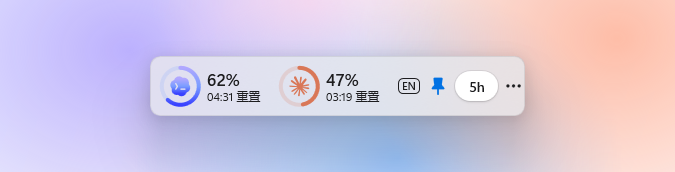
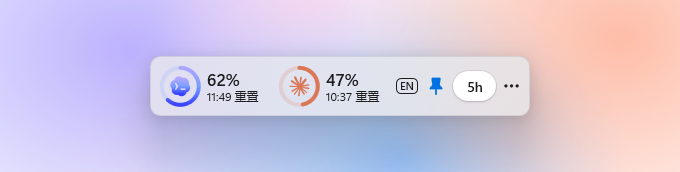
Widen the widget slightly so the menu dots clear the edge
The strip grows from 300 to 304 DIP, all of it as right padding, so the
dots sit about as far from the right edge as the first ring does from
the left. README screenshots retaken.

Changed region(s): [[0.2178, 0.3779, 0.7778, 0.6395], [0.6844, 0.5814, 0.7156, 0.6105]]

diff --git a/desktop/Widget.cs b/desktop/Widget.cs
@@ -116,7 +116,7 @@ namespace AgentHud
             ReadState();
             Lang.Apply(saved.language);
             Title = "Agent HUD Widget";
-            Width = 300; Height = 48;
+            Width = 304; Height = 48;
             WindowStyle = WindowStyle.None; ResizeMode = ResizeMode.NoResize;
             // Not a layered window: DWM only honours the capsule region for the blur on regular windows.
             // The glass frame spans the whole client area so transparent pixels show the blurred backdrop.
@@ -217,7 +217,8 @@ namespace AgentHud
             capsule.Children.Add(tint); capsule.Children.Add(sheen); capsule.Children.Add(edge); capsule.Children.Add(rim);
             var body = new Grid();
             // Language · pin · period · more: each button gets the strip's full height as hit area (the visible chip stays small).
-            foreach (var width in new[] { 7.0, 34, 5, 52, 5, 34, 5, 52, -1, 24, 22, 40, 18, 2 })
+            // The trailing 6 keeps the dots about as far from the right edge as the first ring is from the left.
+            foreach (var width in new[] { 7.0, 34, 5, 52, 5, 34, 5, 52, -1, 24, 22, 40, 18, 6 })
                 body.ColumnDefinitions.Add(new ColumnDefinition { Width = width < 0 ? new GridLength(1, GridUnitType.Star) : new GridLength(width) });
             capsule.Children.Add(body);
             codex.VerticalAlignment = VerticalAlignment.Center; Grid.SetColumn(codex, 1); body.Children.Add(codex);

diff --git a/README.md b/README.md
@@ -20,7 +20,7 @@
 </p>
 
 <p align="center">
-  <img src="docs/images/widget-en.png" width="675" alt="Desktop widget: Codex and Claude quota rings with their logos, remaining percentage and reset time">
+  <img src="docs/images/widget-en.png" width="680" alt="Desktop widget: Codex and Claude quota rings with their logos, remaining percentage and reset time">
 </p>
 
 <p align="center">
@@ -71,7 +71,7 @@ Reference: [Codex App Server documentation](https://learn.chatgpt.com/docs/app-s
 
 The widget runs `desktop/bin/AgentHUD.exe` directly and brings the local quota service back on its own. Earlier versions launched through `Agent HUD.vbs` and `start-widget.ps1`, which antivirus software (Norton) quarantined, so the entry point no longer depends on scripts. On the first run of a freshly built exe, some antivirus products hold it for tens of seconds while scanning.
 
-The widget is a 300 × 48 DIP frosted-glass strip: it blurs whatever is behind it live, uses Windows 11's native rounded corners, scales with Windows display scaling to roughly taskbar height, and follows the Windows app light/dark theme (matching the dashboard). With Windows transparency effects off it switches to an opaque background. The rings use each brand's colors (Codex's blue-violet gradient, Claude's clay orange) with the brand's mark in the center and the remaining percentage beside it; the percentage turns red below 20%.
+The widget is a 304 × 48 DIP frosted-glass strip: it blurs whatever is behind it live, uses Windows 11's native rounded corners, scales with Windows display scaling to roughly taskbar height, and follows the Windows app light/dark theme (matching the dashboard). With Windows transparency effects off it switches to an opaque background. The rings use each brand's colors (Codex's blue-violet gradient, Claude's clay orange) with the brand's mark in the center and the remaining percentage beside it; the percentage turns red below 20%.
 
 Drag empty space to move it. On release it snaps to the edge of the screen's work area when close, and it remembers the monitor and relative position. Restored positions avoid the taskbar and gaps between monitors, are corrected after display or scaling changes, and fall back to the primary screen if the original one is gone. Both the ⋯ menu and the tray menu offer *Reset widget position*.
 

diff --git a/README.zh-CN.md b/README.zh-CN.md
@@ -20,7 +20,7 @@
 </p>
 
 <p align="center">
-  <img src="docs/images/widget-zh.png" width="675" alt="桌面小组件：Codex 与 Claude 的额度圆环、标志、剩余百分比和重置时间">
+  <img src="docs/images/widget-zh.png" width="680" alt="桌面小组件：Codex 与 Claude 的额度圆环、标志、剩余百分比和重置时间">
 </p>
 
 <p align="center">
@@ -71,7 +71,7 @@
 
 小组件直接启动 `desktop/bin/AgentHUD.exe`，启动后会自动恢复本地额度服务。早期版本通过 `Agent HUD.vbs` 和 `start-widget.ps1` 启动，曾被杀毒软件（Norton）拦截，因此当前入口不再依赖脚本。新编译的程序首次运行时，部分杀毒软件会先扫描数十秒才放行。
 
-小组件是 300 × 48 DIP 的毛玻璃横条：实时模糊背后的内容，使用 Windows 11 原生圆角，随 Windows 显示缩放调整，接近默认任务栏高度，并跟随 Windows 应用的浅色/深色主题（与完整面板一致）。系统关闭“透明效果”时改用不透明底色。圆环使用两家的品牌色（Codex 蓝紫渐变、Claude 陶土橙），中心是各自的标志，旁边显示剩余百分比；低于 20% 时百分比变红。
+小组件是 304 × 48 DIP 的毛玻璃横条：实时模糊背后的内容，使用 Windows 11 原生圆角，随 Windows 显示缩放调整，接近默认任务栏高度，并跟随 Windows 应用的浅色/深色主题（与完整面板一致）。系统关闭“透明效果”时改用不透明底色。圆环使用两家的品牌色（Codex 蓝紫渐变、Claude 陶土橙），中心是各自的标志，旁边显示剩余百分比；低于 20% 时百分比变红。
 
 按住空白处拖动可移动，松手时靠近屏幕工作区边缘会贴边，并自动保存显示器及相对位置。恢复位置会避开任务栏和多屏之间的空隙；显示器或缩放变化后重新校正，找不到原屏幕时回到主屏。⋯ 菜单和托盘菜单均提供“重置小组件位置”。
 
